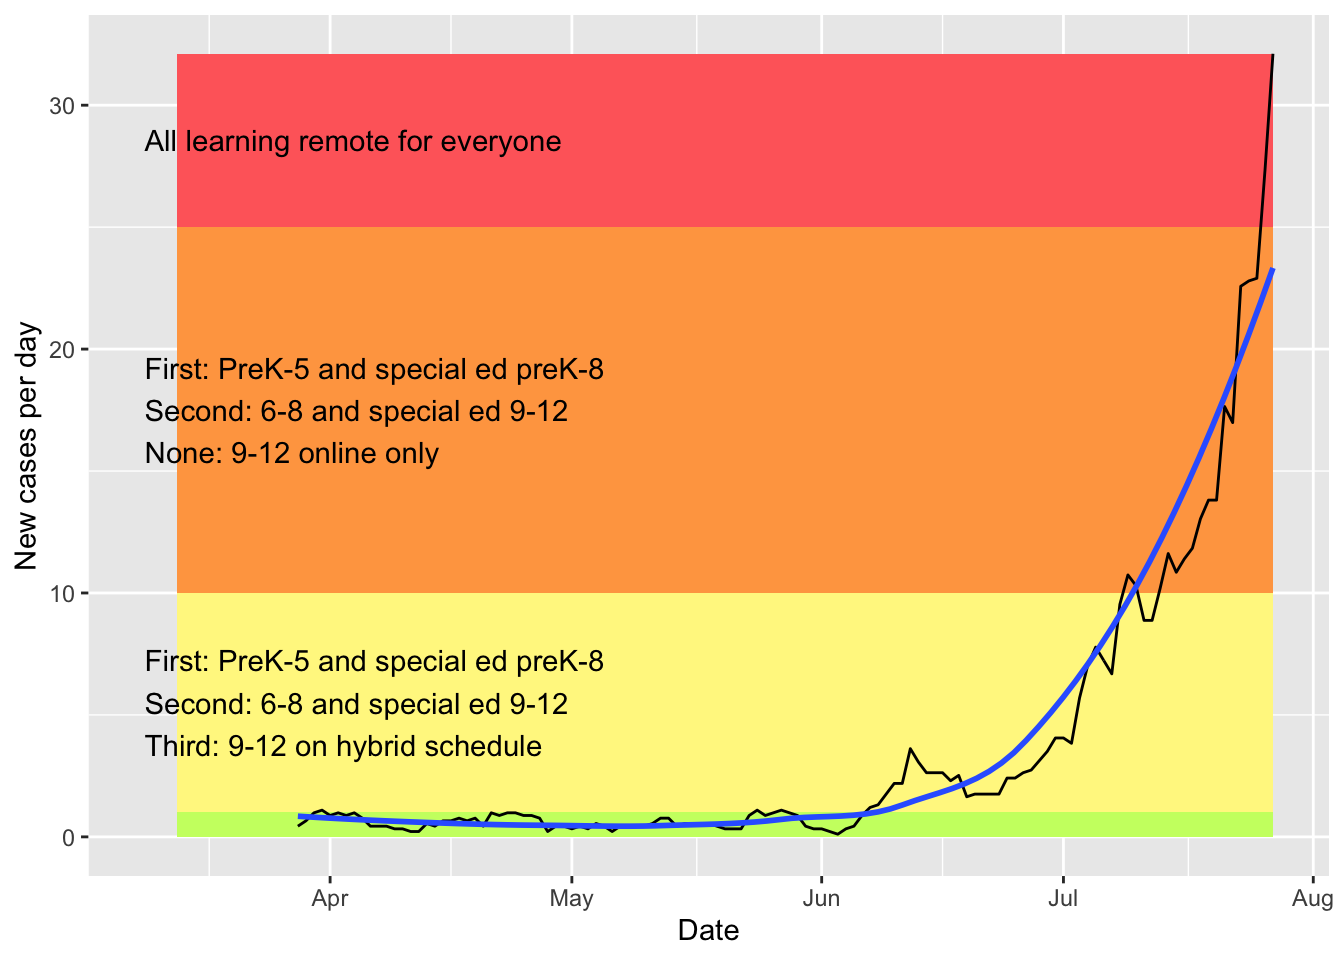
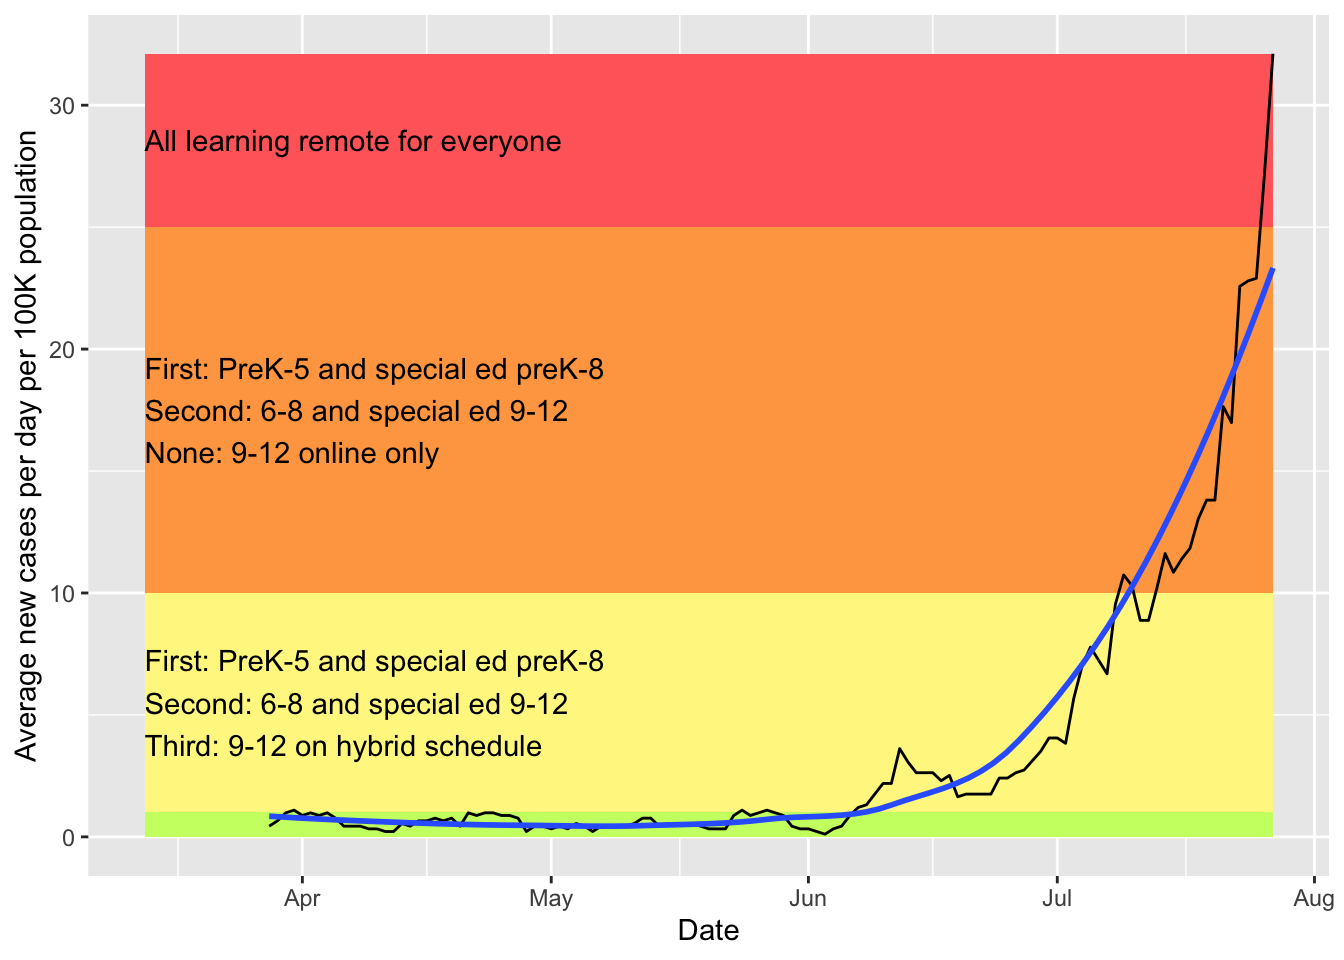
updating site

diff --git a/docs/covid.html b/docs/covid.html
@@ -423,7 +423,7 @@ $(document).ready(function () {
 <li>Info about cases at <a href="#ut">U. of Tennessee, Knoxville</a> (using public information only)</li>
 <li><a href="#webcams">Webcams</a> showing activity at local sites, though not quite at the resolution to point to mask usage or not</li>
 </ul>
-<p>The following plots are created in R using data from <a href="https://covid19datahub.io" class="uri">https://covid19datahub.io</a> (Guidotti, E., Ardia, D., (2020), “COVID-19 Data Hub”, Working paper, doi: 10.13140/RG.2.2.11649.81763), as well as information from Google and the <a href="https://www.tn.gov/health/cedep/ncov/data/downloadable-datasets.html">state of Tennessee dataset page</a> and plotting and analysis using the <code>forecast</code>, <code>ggplot2</code>, <code>reshape2</code>, and <code>dplyr</code> packages. It also uses the <a href="https://github.com/mtna/rds-r">rds-r</a> package from <a href="https://www.richdataservices.com/" class="uri">https://www.richdataservices.com/</a>. Plots created on 2020-07-27 23:33:09. I use <code>ggplot2</code>’s <code>geom_smooth()</code> function for the smoothed regression plots with its default formula, which uses loess smoothing for this many points. This is not based on a model of disease spread or anything similarly sophisticated, just drawing a smooth curve to summarize noisy points (see <a href="https://www.itl.nist.gov/div898/handbook/pmd/section1/pmd144.htm">here</a> for more details).</p>
+<p>The following plots are created in R using data from <a href="https://covid19datahub.io" class="uri">https://covid19datahub.io</a> (Guidotti, E., Ardia, D., (2020), “COVID-19 Data Hub”, Working paper, doi: 10.13140/RG.2.2.11649.81763), as well as information from Google and the <a href="https://www.tn.gov/health/cedep/ncov/data/downloadable-datasets.html">state of Tennessee dataset page</a> and plotting and analysis using the <code>forecast</code>, <code>ggplot2</code>, <code>reshape2</code>, and <code>dplyr</code> packages. It also uses the <a href="https://github.com/mtna/rds-r">rds-r</a> package from <a href="https://www.richdataservices.com/" class="uri">https://www.richdataservices.com/</a>. Plots created on 2020-07-27 23:40:03. I use <code>ggplot2</code>’s <code>geom_smooth()</code> function for the smoothed regression plots with its default formula, which uses loess smoothing for this many points. This is not based on a model of disease spread or anything similarly sophisticated, just drawing a smooth curve to summarize noisy points (see <a href="https://www.itl.nist.gov/div898/handbook/pmd/section1/pmd144.htm">here</a> for more details).</p>
 <h2 id="cases">
 Cases
 </h2>
@@ -451,7 +451,7 @@ Schooling
 </h2>
 <p>Many of the local schools are adopting a hybrid approach, where families can choose whether to send their kids to school or do online learning (sometimes with reduced options). The <i>New York Times</i> <a href="https://www.nytimes.com/2020/07/14/us/coronavirus-schools-fall.html">reports</a> on July 14, 2020, that, “As education leaders decide whether to reopen classrooms in the fall amid a raging pandemic, many are looking to a standard generally agreed upon among epidemiologists: To control community spread of the coronavirus, the average daily infection rate among those who are tested should not exceed 5 percent.” Many districts nationally are not hitting that goal, but a question is whether local ones will. The first district to open in our area will be Oak Ridge public schools, who have a start date for students in person on July 29, 2020. Following the procedure of the <i>NYT</i>‘s article, I am plotting the seven day average of positivity rate for tests for the counties including Oak Ridge (Roane and Anderson). The black line is the seven day rolling mean (total new confirmed / total new tests, not a mean of this ratio per day), the blue line is this smoothed, the dotted line is the 5% threshold, and the green rectangle is the first week of school – the positivity should be in that rectangle to meet epidemiologists’ goals. Oak Ridge is giving families options of whether to enroll their children in online or in person school: their plan, and the way to choose either mode, is <a href="https://www.ortn.edu/reopening-plan-2020-2021/">here</a>. They have updated their in person plan to require masks when possible but not social distancing; when individuals test positive, the possibly affected parts of the building will be closed for 2-5 days. We’ve opted for the online option for our family.</p>
 <p><img src="covid_files/figure-html/oakridge7-1.png" width="672" /></p>
-<p>Harvard’s Edmond J. Safra Center for Ethics and the Harvard Global Health Institute have created (July 19, 2020) <a href="https://globalhealth.harvard.edu/path-to-zero-schools-achieving-pandemic-resilient-teaching-and-learning-spaces/">guidelines for schools reopening</a> (see also their <a href="https://globalepidemics.org/wp-content/uploads/2020/07/pandemic_resilient_schools_briefing_7.19.20.pdf">full report PDF</a>). They distinguish students by age group: “With COVID-19, people 18 and younger have far lower risk of death, hospitalization, and severe outcomes and are also less likely to get infected. Within this group, students in the younger age band of 10 and under also transmit at lower rates. This last point about lower rates of transmission may also pertain to people 15 and younger, a point that research should clarify in coming weeks. Keeping levels of risk low for young children via pandemic resilient teaching and learning spaces is more readily achievable than doing so for high school age students and the adult educators and staff in the school building.” They provide suggestions on building ventilation, social distancing, and more, and mention the utility of looking at multiple metrics (such as positivity rate, hospitalization, and more), but focus on daily new cases per 100,000 people (with a caution about missing cases if testing is not adequate; for example, if positivity rate is above 10%). The plot below has summaries of their recommendations for priority for which grade levels can meet in person, <strong>if there are conditions for pandemic resistant teaching and learning</strong>.</p>
+<p>Harvard’s Edmond J. Safra Center for Ethics and the Harvard Global Health Institute have created (July 19, 2020) <a href="https://globalhealth.harvard.edu/path-to-zero-schools-achieving-pandemic-resilient-teaching-and-learning-spaces/">guidelines for schools reopening</a> (see also their <a href="https://globalepidemics.org/wp-content/uploads/2020/07/pandemic_resilient_schools_briefing_7.19.20.pdf">full report PDF</a>). They distinguish students by age group: “With COVID-19, people 18 and younger have far lower risk of death, hospitalization, and severe outcomes and are also less likely to get infected. Within this group, students in the younger age band of 10 and under also transmit at lower rates. This last point about lower rates of transmission may also pertain to people 15 and younger, a point that research should clarify in coming weeks. Keeping levels of risk low for young children via pandemic resilient teaching and learning spaces is more readily achievable than doing so for high school age students and the adult educators and staff in the school building.” They provide suggestions on building ventilation, social distancing, and more, and mention the utility of looking at multiple metrics (such as positivity rate, hospitalization, and more), but focus on daily new cases per 100,000 people (with a caution about missing cases if testing is not adequate; for example, if positivity rate is above 10%). The plot below has summaries of their recommendations for priority for which grade levels can meet in person, <strong>if there are conditions for pandemic resistant teaching and learning</strong>. The black line is the rolling seven day average of new cases per day, the blue line is this smoothed.</p>
 <p><img src="covid_files/figure-html/harvardstandards-1.png" width="672" /></p>
 <p><a href="https://www.acs.ac/">Anderson County</a> has a school plan based on the percentage of the community actively infected with covid. Their schools open later than Oak Ridge schools, but it might be a useful indicator for community thinking. Remember the “Oak Ridge” line is Anderson and Roane counties combined. Note that Anderson’s metric is based on the <em>number</em> of people with active covid (those with positive tests who are not yet recovered or deceased) and so it may be sensitive to the number of tests in a way that the positivity rate is not; in the areas between phases they use other information to make a determination, such as number of absences of students and teachers.</p>
 <p><img src="covid_files/figure-html/andersonstandards-1.png" width="672" /></p>
